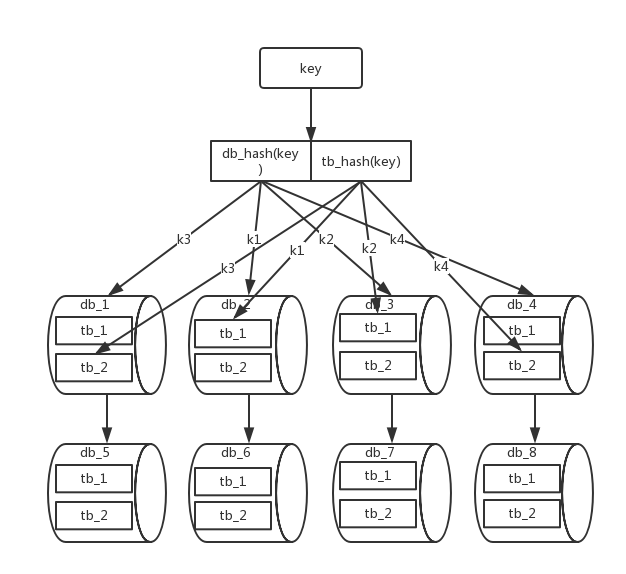
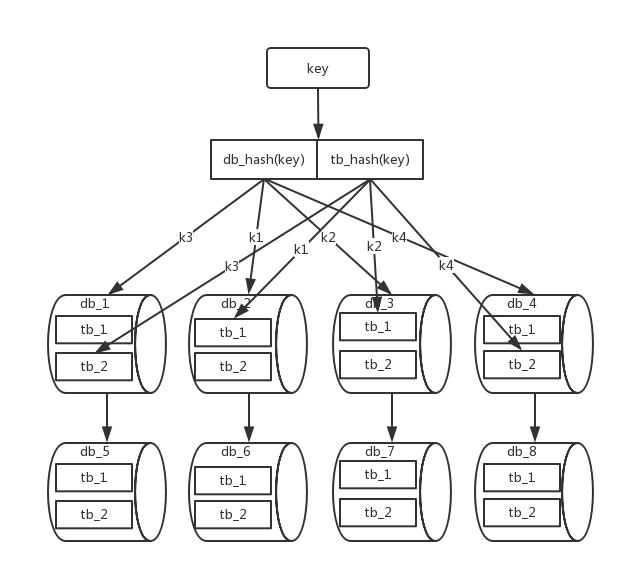
db分库分表

diff --git a/MD/db-split.md b/MD/db-split.md
@@ -48,5 +48,8 @@
 
 ![](https://github.com/werwolfGu/JHodgepodge/blob/master/web/src/main/webapp/picture/db_5.png) 
 
->在之前有4个数据库，现在扩展成8个数据库 db5 存有db1 的冗余`5 == hash(key)%8`的数据 db6有db2的冗余`5 == hash(key)%8`的数据... 按之前hash(key) mod 4 ；现在mod 8 ；
-比如现在 key为5 ；之前是落到db1 ；但现在落到db5不过是有db1的数据，这样就可以平滑实现数据库扩张； 以此类推；水平分表同理
+>在之前有4个数据库，现在扩展成8个数据库`db5`存有`db1` 的冗余`5 == hash(key)%8`的数据`db6`有`db2`的冗余`5 == hash(key)%8`的数据...按之前hash(key) mod 4 ；现在mod 8 ；
+比如现在 key为5 ；之前是落到db1 ；但现在落到db5不过是有db1的数据，这样就可以平滑实现数据库扩张；以此类推；水平分表同理
+
+- 如果使用[一致性hash算法](https://github.com/werwolfGu/JHodgepodge/blob/master/MD/consistent_hash.md)实现分表分库可以随便增加几个数据库节点；亦无需按倍数来增加数据库
+参考 [大众点评订单系统分库分表实践](https://tech.meituan.com/dianping_order_db_sharding.html)

diff --git a/README.md b/README.md
@@ -23,9 +23,9 @@
 ## Object对象结构
 - [Java Object结构](https://github.com/werwolfGu/JHodgepodge/blob/master/MD/createObject.md)
 
-##数据结构与算法
+## 数据结构与算法
 - [一致性hash算法](https://github.com/werwolfGu/JHodgepodge/blob/master/MD/consistent_hash.md)
 
 ## MySQL
 
-- [数据库分库分表](https://github.com/werwolfGu/JHodgepodge/blob/master/MD/db_split.md)
+- [数据库分库分表](https://github.com/werwolfGu/JHodgepodge/blob/master/MD/db-split.md)
